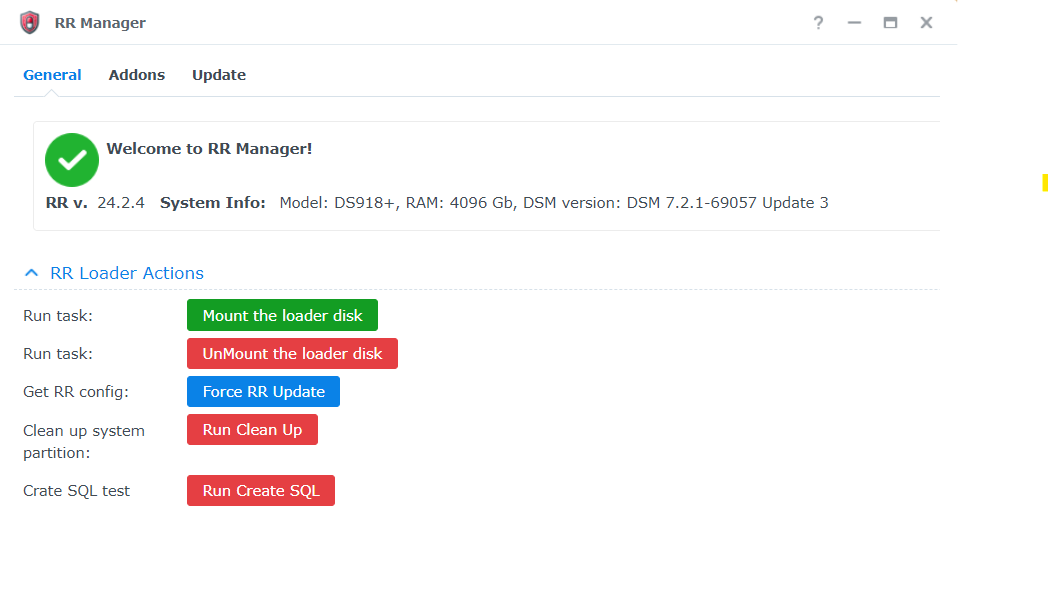
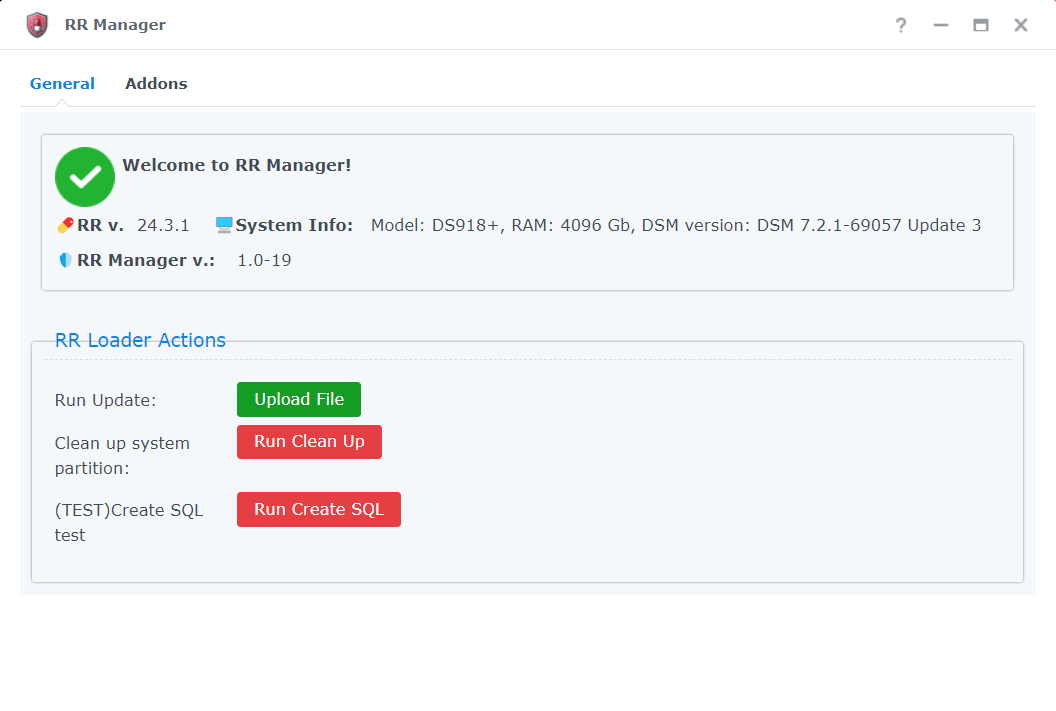
fix the readme, update the screenshots

diff --git a/README.md b/README.md
@@ -1,5 +1,5 @@
 # What is that?
-![Main Screen](img/main.png)
+![Main Screen](img/main.gif)
 RRManager is a Redpill Recovery DSM application aimed to provide the ability to configure/update RR without booting to RR recovery. This package is for experienced users. 
 
 ❗❗❗ Required `RR v.24.2.4`
@@ -14,29 +14,20 @@ I didn't find documentaion regarding that framework, so I spent a lot of time to
 
 # Instalation
 1. Download RR Manager spk file from github
-2. Install SPK
-3. Setup tasks
-4. Run `SetRootPrivsToRrManager` taks to add root privilages to the `RR Manager`.
+    - For fome reason the spk marked as a `virus` on windows. I will investigate the reason.
+![Main Screen](img/virus_warning.png)
+1. Install SPK, specify the path to store RR artifacts
+2. Follow the guide to create necessary resources
 
+## How does it work?
+During the app install, you can specify the folders to store the RR artifacts during the update process. You can also select the folders and shares created during the installation or populate existing shares.
 
-# How to setup tasks
-Create folowing tasks manually that must be runned behalf of `root`:
+In my case the share is `rr` and the temp folder is `tmp`.
+So the RR Manager will upload the updated file to the `/volumeX/rr/tmp/update.zip`.
 
-- RunRrUpdate:
-```bash
-. /var/packages/rr-manager/target/app/config.txt
-/usr/bin/rr-update.sh updateRR "$UPLOAD_DIR_PATH$RR_TMP_DIR"/update.zip /tmp/rr_update_progress
-```
-
-- SetRootPrivsToRrManager:
-```bash
-sed -i 's/package/root/g' /var/packages/rr-manager/conf/privilege
-synopkg restart rr-manager
-```
-
-## How does it works?
-That app using `/downloads` folder to upload the update.zip. Then the script of the that was made by RR maintainer will be runned. `RR Manager` is implementing only UI for the update process.
+Please note that you need to upload `updateX.zip(updateall-24.3.0)`, not `rr-23.11.1.img.zip`.
+ I will add that validation in the future.
 
 ## TODO:
 - [ ] fix ui
-- [ ] remove manual steps to create task
+
